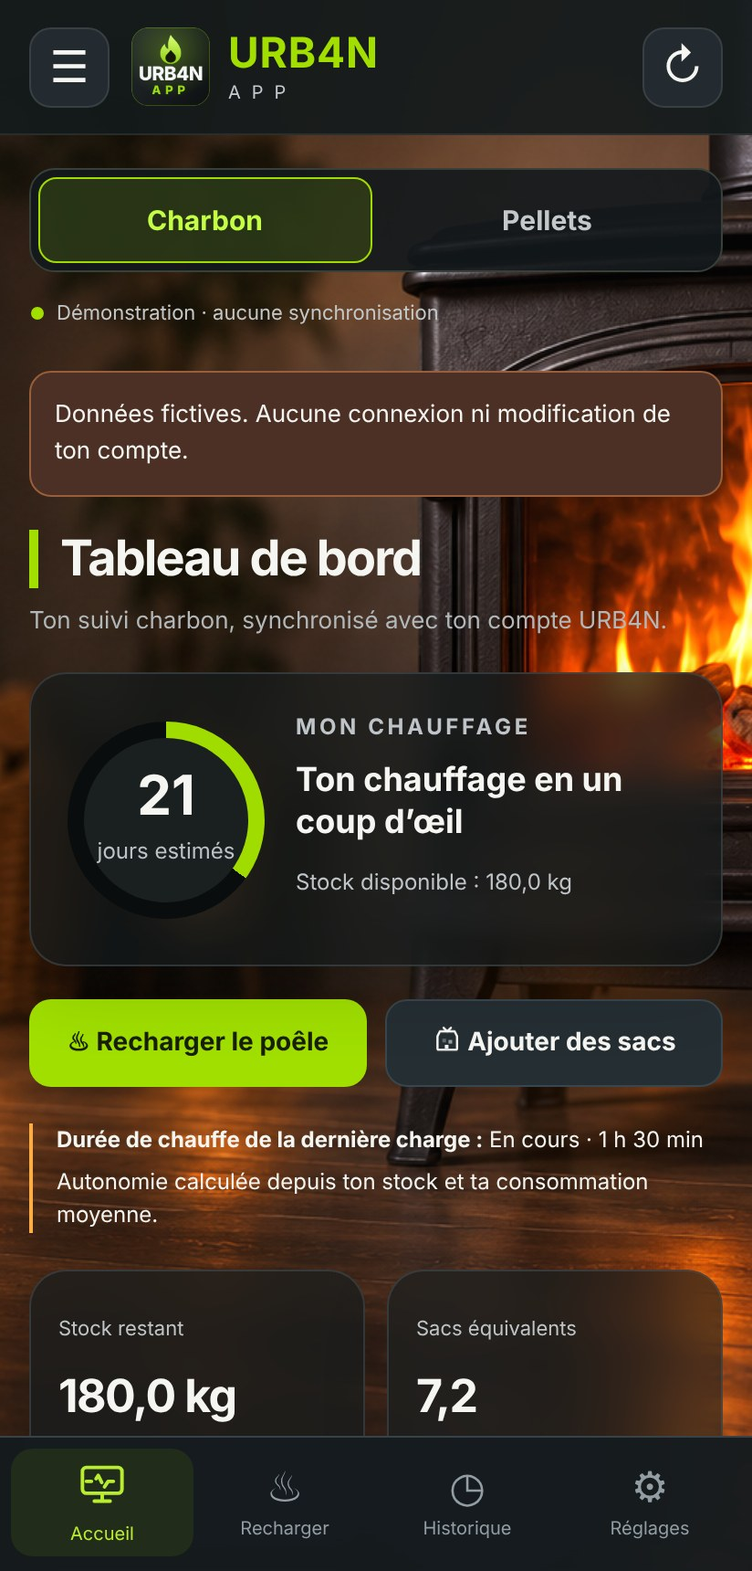
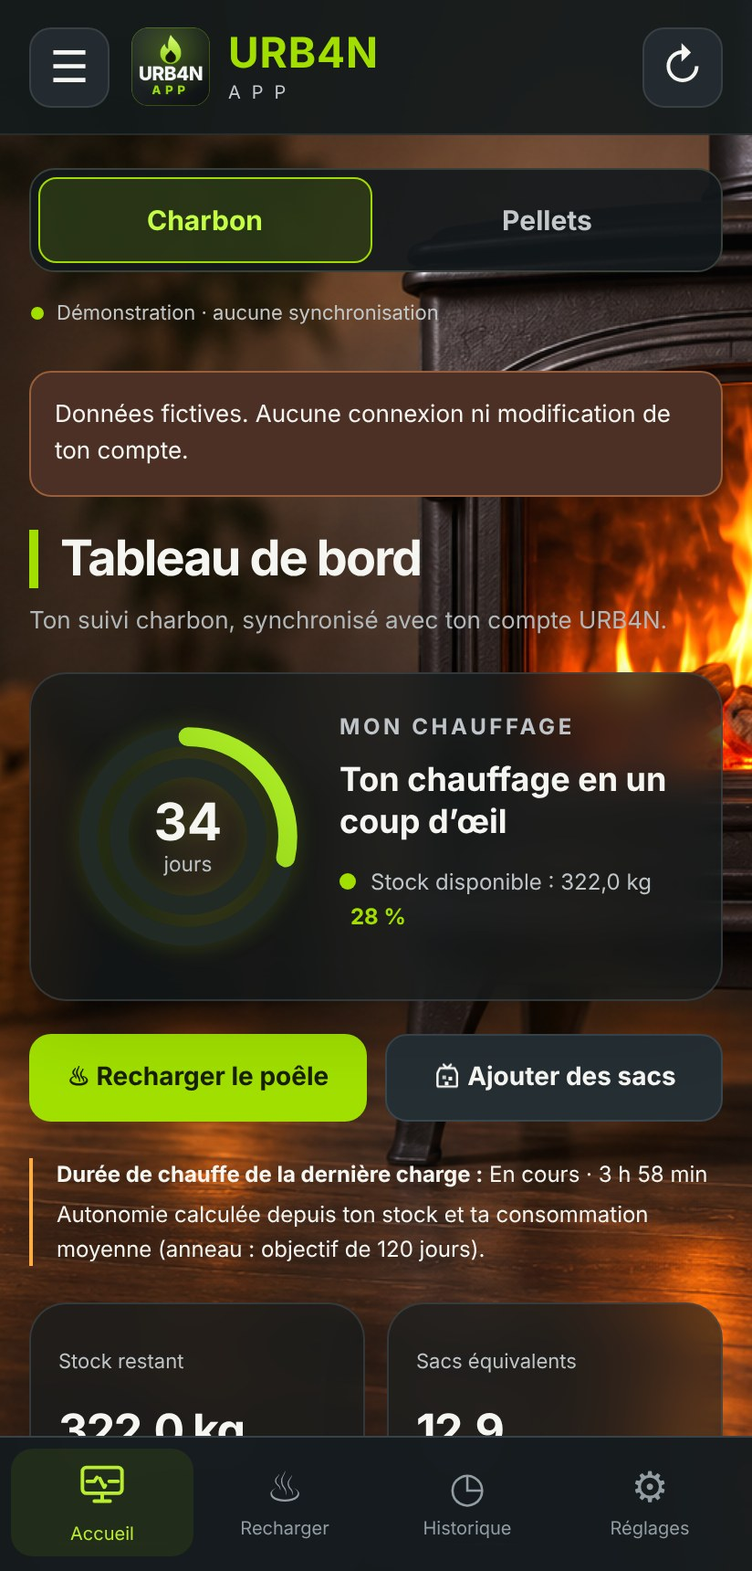
Site : captures Android de la nouvelle app et versions dans la légende
Claude-Session: https://claude.ai/code/session_017pRw9GXwh5B9mUks8ggPbM

Changed region(s): [[0.0303, 0.4314, 0.9709, 0.9244]]

diff --git a/i18n.js b/i18n.js
@@ -1,6 +1,6 @@
 (function(){
 "use strict";
-var D={"T": {"URB4N APP — Suivi de poêle à charbon et pellets": ["URB4N APP — Coal and pellet stove tracker", "URB4N APP — Opvolging van je kolen- en pelletkachel"], "L’application": ["The app", "De app"], "Confidentialité": ["Privacy", "Privacy"], "Conditions": ["Terms", "Voorwaarden"], "Windows et Android · Suivi personnel": ["Windows and Android · Personal tracking", "Windows en Android · Persoonlijke opvolging"], "Ton poêle.": ["Your stove.", "Jouw kachel."], "Sous contrôle.": ["Under control.", "Onder controle."], "Note tes rechargements de charbon ou de pellets et tes achats de sacs. URB4N APP calcule ton stock, ton autonomie et ton coût par jour. Tes données sont enregistrées sur ton compte URB4N, retrouvables sur tous tes appareils, et l’application garde ta saisie hors ligne.": ["Log your coal or pellet refills and your bag purchases. URB4N APP works out your stock, your autonomy and your cost per day. Your data is saved on your URB4N account, available on all your devices, and the app keeps your entries offline.", "Noteer je bijvullingen van kolen of pellets en je aankopen van zakken. URB4N APP berekent je voorraad, je autonomie en je kosten per dag. Je gegevens worden bewaard op je URB4N-account, zijn terug te vinden op al je toestellen, en de app bewaart je invoer ook offline."], "Télécharger pour Windows": ["Download for Windows", "Downloaden voor Windows"], "Télécharger pour Android": ["Download for Android", "Downloaden voor Android"], "Application sans pub ·": ["Ad-free app ·", "App zonder reclame ·"], "Voir les captures": ["See the screenshots", "Bekijk de screenshots"], "Ton stock": ["Your stock", "Jouw voorraad"], "toujours à jour": ["always up to date", "altijd up-to-date"], "Ton autonomie": ["Your autonomy", "Jouw autonomie"], "en jours, avant de racheter": ["in days, before you buy more", "in dagen, voor je opnieuw koopt"], "Ton coût par jour": ["Your cost per day", "Jouw kosten per dag"], "et ton prix moyen du sac": ["and your average bag price", "en je gemiddelde zakprijs"], "Essaie tout de suite": ["Try it now", "Probeer meteen"], "Combien de jours te reste-t-il ?": ["How many days do you have left?", "Hoeveel dagen heb je nog?"], "Choisis ton combustible et réponds à quatre questions : tu vois ton autonomie, ta date de panne sèche et ton coût par jour. L’application fait ce calcul toute seule, à partir de tes vrais rechargements.": ["Pick your fuel and answer four questions: you get your autonomy, your run-out date and your cost per day. The app does this calculation by itself, from your real refills.", "Kies je brandstof en beantwoord vier vragen: je ziet je autonomie, je datum van lege voorraad en je kosten per dag. De app doet deze berekening automatisch, op basis van je echte bijvullingen."], "Charbon": ["Coal", "Kolen"], "Pellets": ["Pellets", "Pellets"], "Sacs en stock": ["Bags in stock", "Zakken in voorraad"], "Poids d’un sac": ["Weight of a bag", "Gewicht van een zak"], "Tu brûles par jour": ["You burn per day", "Je verbrandt per dag"], "Prix d’un sac": ["Price of a bag", "Prijs van een zak"], "Panne sèche vers le": ["Runs out around", "Voorraad op rond"], "Coût moyen": ["Average cost", "Gemiddelde kosten"], "Stock": ["Stock", "Voorraad"], "Dans l’application :": ["In the app:", "In de app:"], "les charbons courants (anthracite IBB, Super Eco-Flam, Eurocalor, Topflam, Futurex, boulets défumés, lignite…) avec leurs calibres du 5/10 au 40/60, et les principales marques de pellets (Arden, Badger, Cleanfire, Comfo, Granulita, Pauls, Plospan, TotalEnergies, Woodies…) en 6 mm ou 8 mm. Ta marque n’y est pas ? Choisis « Autre ». Chaque combustible est suivi et calculé séparément.": ["the common coals (anthracite IBB, Super Eco-Flam, Eurocalor, Topflam, Futurex, smokeless briquettes, lignite…) with their sizes from 5/10 to 40/60, and the main pellet brands (Arden, Badger, Cleanfire, Comfo, Granulita, Pauls, Plospan, TotalEnergies, Woodies…) in 6 mm or 8 mm. Your brand isn't there? Choose “Autre” (Other). Each fuel is tracked and calculated separately.", "de gangbare kolen (anthraciet IBB, Super Eco-Flam, Eurocalor, Topflam, Futurex, rookvrije briketten, bruinkool…) met hun korrelgroottes van 5/10 tot 40/60, en de belangrijkste pelletmerken (Arden, Badger, Cleanfire, Comfo, Granulita, Pauls, Plospan, TotalEnergies, Woodies…) in 6 mm of 8 mm. Staat jouw merk er niet bij? Kies “Autre” (Andere). Elke brandstof wordt apart opgevolgd en berekend."], "Voir ça avec mes vrais chiffres": ["See it with my real numbers", "Bekijk het met mijn echte cijfers"], "Gratuit · Windows et Android": ["Free · Windows and Android", "Gratis · Windows en Android"], "Sur ton PC et ton téléphone": ["On your PC and your phone", "Op je pc en je telefoon"], "Le même suivi, partout.": ["The same tracking, everywhere.", "Dezelfde opvolging, overal."], "Reconnecte ton compte Google sur un autre appareil et retrouve tes achats, tes rechargements et tes réglages.": ["Sign back in with your Google account on another device and find your purchases, refills and settings.", "Meld je opnieuw aan met je Google-account op een ander toestel en vind je aankopen, bijvullingen en instellingen terug."], "Tout ce qu’il faut, rien de plus.": ["Everything you need, nothing more.", "Alles wat je nodig hebt, niets meer."], "Suivre": ["Track", "Opvolgen"], "Chaque rechargement noté": ["Every refill logged", "Elke bijvulling genoteerd"], "Enregistre dates, combustibles, calibres et quantités. Consulte l’historique et les bilans par jour ou par mois.": ["Record dates, fuels, sizes and quantities. Browse the history and the summaries by day or month.", "Registreer datums, brandstoffen, korrelgroottes en hoeveelheden. Raadpleeg de geschiedenis en de overzichten per dag of per maand."], "Adapter": ["Adapt", "Aanpassen"], "Charbon ou pellets": ["Coal or pellets", "Kolen of pellets"], "Renseigne les poids vide et plein de ta charbonnière : l’application déduit le récipient et calcule les fractions versées. Pour les pellets, choisis tes sacs du ¼ de sac à 4 sacs.": ["Enter the empty and full weights of your coal scuttle: the app subtracts the container and calculates the fractions poured in. For pellets, pick your bags from ¼ bag to 4 bags.", "Geef het leeg en vol gewicht van je kolenemmer op: de app trekt de emmer af en berekent de gegoten delen. Kies voor pellets je zakken van ¼ zak tot 4 zakken."], "Retrouver": ["Find", "Terugvinden"], "Sur tous tes appareils": ["On all your devices", "Op al je toestellen"], "Reconnecte ton compte Google sur un autre appareil et retrouve ton suivi.": ["Sign back in with your Google account on another device and find your tracking.", "Meld je opnieuw aan met je Google-account op een ander toestel en vind je opvolging terug."], "Comment ça marche": ["How it works", "Hoe het werkt"], "Installe": ["Install", "Installeer"], "Télécharge l’application Windows ou Android et ouvre-la.": ["Download the Windows or Android app and open it.", "Download de Windows- of Android-app en open ze."], "Connecte Google": ["Connect Google", "Verbind Google"], "Une inscription avec ton compte Google est requise pour accéder au suivi.": ["Signing up with your Google account is required to access the tracking.", "Een registratie met je Google-account is vereist om de opvolging te gebruiken."], "Note tes rechargements": ["Log your refills", "Noteer je bijvullingen"], "Stock, autonomie et coût se mettent à jour tout seuls.": ["Stock, autonomy and cost update by themselves.", "Voorraad, autonomie en kosten worden vanzelf bijgewerkt."], "À l’intérieur de l’application": ["Inside the app", "In de app"], "Un aperçu avant de te lancer.": ["A preview before you start.", "Een voorsmaakje voor je begint."], "Une interface sombre et tes outils de suivi à portée de main. Clique sur une capture pour l’agrandir.": ["A dark interface and your tracking tools within reach. Click a screenshot to enlarge it.", "Een donkere interface en je opvolgingstools binnen handbereik. Klik op een screenshot om te vergroten."], "Sur Windows": ["On Windows", "Op Windows"], "Agrandir ↗": ["Enlarge ↗", "Vergroten ↗"], "Ton chauffage en un coup d’œil": ["Your heating at a glance", "Je verwarming in één oogopslag"], "Stock, autonomie et consommation sur un seul écran.": ["Stock, autonomy and consumption on a single screen.", "Voorraad, autonomie en verbruik op één scherm."], "Des achats faciles à suivre": ["Purchases that are easy to track", "Aankopen die makkelijk op te volgen zijn"], "Prix du sac ou total payé : l’autre montant est calculé.": ["Bag price or total paid: the other amount is calculated.", "Prijs van de zak of totaal betaald: het andere bedrag wordt berekend."], "Charbon et pellets, chacun son suivi": ["Coal and pellets, each tracked separately", "Kolen en pellets, elk met eigen opvolging"], "Combustible, calibre et quantité réellement versée.": ["Fuel, size and the quantity actually poured in.", "Brandstof, korrelgrootte en effectief gegoten hoeveelheid."], "Sur Android": ["On Android", "Op Android"], "Le tableau de bord, dans ta poche": ["The dashboard, in your pocket", "Het dashboard, in je zak"], "Autonomie, stock et boutons rapides.": ["Autonomy, stock and quick buttons.", "Autonomie, voorraad en snelknoppen."], "Un rechargement en quelques touches": ["A refill in a few taps", "Een bijvulling in een paar tikken"], "Combustible, calibre et quantité.": ["Fuel, size and quantity.", "Brandstof, korrelgrootte en hoeveelheid."], "Historique et durée de chauffe": ["History and heating time", "Geschiedenis en stookduur"], "Chaque rechargement, sa durée et son coût.": ["Every refill, its duration and its cost.", "Elke bijvulling, haar duur en haar kosten."], "Captures avec des données fictives, réalisées avec les versions Windows 1.3.0.4 et Android 2.2.0.4.": ["Screenshots with sample data, taken with the Windows 1.3.0.4 and Android 2.2.0.4 versions.", "Screenshots met fictieve gegevens, gemaakt met de versies Windows 1.3.0.4 en Android 2.2.0.4."], "Nouveautés": ["What's new", "Nieuw"], "Nouvel anneau d’autonomie à deux cercles : le stock restant et l’avancement de la charge en cours. Alerte « Vérifie le poêle » : l’application apprend de tes charges et te prévient à 90 % de la durée attendue, par une notification Windows ou Android. Tu peux corriger ou supprimer un rechargement ou un achat directement dans leurs pages. Sous Windows : courbes en barres avec la prévision du stock jusqu’à zéro, et l’application reste près de l’horloge quand tu fermes la fenêtre.": ["New two-ring autonomy gauge: the remaining stock and the progress of the current charge. “Check the stove” alert: the app learns from your charges and warns you at 90% of the expected duration, with a Windows or Android notification. You can correct or delete a refill or a purchase directly on their pages. On Windows: bar charts with the stock forecast down to zero, and the app stays near the clock when you close the window.", "Nieuwe autonomiering met twee cirkels: de resterende voorraad en de voortgang van de lopende lading. Waarschuwing “Controleer de kachel”: de app leert van je ladingen en waarschuwt je op 90 % van de verwachte duur, via een Windows- of Android-melding. Je kunt een bijvulling of aankoop rechtstreeks op hun pagina’s corrigeren of verwijderen. Onder Windows: staafgrafieken met de voorspelling van de voorraad tot nul, en de app blijft bij de klok staan wanneer je het venster sluit."], "Questions fréquentes": ["Frequently asked questions", "Veelgestelde vragen"], "L’application Android est-elle prête ?": ["Is the Android app ready?", "Is de Android-app klaar?"], "Oui, c’est la version 2.3.0.2, installée par fichier APK hors Google Play (Android 8 ou plus récent, appareil 64 bits avec services Google Play). Les mises à jour se font depuis la page « Mises à jour » de l’application.": ["Yes, it's version 2.3.0.2, installed through an APK file outside Google Play (Android 8 or later, 64-bit device with Google Play services). Updates are done from the app's “Mises à jour” (Updates) page.", "Ja, het is versie 2.3.0.2, geïnstalleerd via een APK-bestand buiten Google Play (Android 8 of recenter, 64-bits toestel met Google Play-services). Updates gebeuren via de pagina “Mises à jour” (Updates) van de app."], "Pourquoi Google affiche-t-il un avertissement ?": ["Why does Google show a warning?", "Waarom toont Google een waarschuwing?"], "Le projet Google est en Production, mais la validation Google est encore en préparation : un avertissement et un plafond de connexions peuvent s’appliquer. Aucun compte Google n’est fourni avec l’application, et une installation vierge nécessite encore une configuration de connexion fournie par l’éditeur.": ["The Google project is in Production, but Google's verification is still being prepared: a warning and a cap on sign-ins may apply. No Google account is supplied with the app, and a fresh install still needs a sign-in configuration provided by the publisher.", "Het Google-project staat in Productie, maar de validatie door Google is nog in voorbereiding: er kan een waarschuwing en een limiet op het aantal aanmeldingen gelden. Er wordt geen Google-account met de app meegeleverd, en een verse installatie vraagt nog een aanmeldingsconfiguratie die door de uitgever wordt geleverd."], "Pourquoi connecter Google ?": ["Why connect Google?", "Waarom Google verbinden?"], "Google sert uniquement à prouver qui tu es (adresse e-mail et identifiant). Ton compte URB4N est créé à la première connexion et tes données sont enregistrées sur le serveur de l’éditeur, sans accès à ton Drive.": ["Google is only used to prove who you are (e-mail address and identifier). Your URB4N account is created at first sign-in and your data is saved on the publisher's server, with no access to your Drive.", "Google dient enkel om te bewijzen wie je bent (e-mailadres en identificatiecode). Je URB4N-account wordt bij de eerste aanmelding aangemaakt en je gegevens worden bewaard op de server van de uitgever, zonder toegang tot je Drive."], "Comment contacter le support ?": ["How do I contact support?", "Hoe contacteer ik de ondersteuning?"], "Dans l’application, le menu « Contact support » (bouton « Créer un ticket ») envoie volontairement un titre, une description et, si tu le souhaites, une capture. Ces rapports sont conservés sur le serveur de l’éditeur. Tu retrouves ensuite la conversation dans la même page.": ["In the app, the “Contact support” menu (“Créer un ticket” button) voluntarily sends a title, a description and, if you wish, a screenshot. These reports are kept on the publisher's server. You then find the conversation on the same page.", "In de app stuurt het menu “Contact support” (knop “Créer un ticket”) vrijwillig een titel, een beschrijving en, als je wilt, een screenshot. Deze meldingen worden bewaard op de server van de uitgever. Het gesprek vind je daarna op dezelfde pagina terug."], "Comment mettre à jour l’application ?": ["How do I update the app?", "Hoe werk ik de app bij?"], "Les mises à jour se font directement depuis l’application. Elle te propose la nouvelle version au démarrage.": ["Updates are done directly from the app. It offers you the new version at startup.", "Updates gebeuren rechtstreeks vanuit de app. Ze stelt je de nieuwe versie voor bij het opstarten."], "Tes données restent à toi.": ["Your data stays yours.", "Je gegevens blijven van jou."], "Google sert uniquement à t’identifier. Chaque utilisateur a son propre espace privé.": ["Google is only used to identify you. Each user has their own private space.", "Google dient enkel om je te identificeren. Elke gebruiker heeft zijn eigen privéruimte."], "Lire la confidentialité": ["Read the privacy policy", "Lees het privacybeleid"], "URB4N APP · Maintenu par": ["URB4N APP · Maintained by", "URB4N APP · Onderhouden door"], "· Contact :": ["· Contact:", "· Contact:"], "Application indépendante, sans affiliation avec Google ou un fabricant de poêles.": ["Independent app, not affiliated with Google or any stove manufacturer.", "Onafhankelijke app, zonder banden met Google of een kachelfabrikant."], "Fermer": ["Close", "Sluiten"], "← Précédente": ["← Previous", "← Vorige"], "Suivante →": ["Next →", "Volgende →"]}, "A": {"Navigation principale": ["Main navigation", "Hoofdnavigatie"], "Logo URB4N APP : une flamme sur fond sombre": ["URB4N APP logo: a flame on a dark background", "URB4N APP-logo: een vlam op een donkere achtergrond"], "Combustible": ["Fuel", "Brandstof"], "Autonomie": ["Autonomy", "Autonomie"], "Tableau de bord URB4N APP sur Windows": ["URB4N APP dashboard on Windows", "URB4N APP-dashboard op Windows"], "Accueil de l’application Android": ["Home screen of the Android app", "Startscherm van de Android-app"], "Tableau de bord — stock, autonomie et consommation en un coup d’œil (données fictives).": ["Dashboard — stock, autonomy and consumption at a glance (sample data).", "Dashboard — voorraad, autonomie en verbruik in één oogopslag (fictieve gegevens)."], "Tableau de bord URB4N APP : 19 jours d’autonomie, 184 kg de stock, consommation moyenne et derniers rechargements.": ["URB4N APP dashboard: 19 days of autonomy, 184 kg in stock, average consumption and latest refills.", "URB4N APP-dashboard: 19 dagen autonomie, 184 kg voorraad, gemiddeld verbruik en laatste bijvullingen."], "Achats de sacs — saisis le prix d’un sac ou le montant total payé (données fictives).": ["Bag purchases — enter the price of a bag or the total amount paid (sample data).", "Aankopen van zakken — geef de prijs van een zak of het totaal betaalde bedrag in (fictieve gegevens)."], "Achats de sacs : formulaire avec nombre de sacs, prix d’un sac et montant total payé, et liste des achats.": ["Bag purchases: form with number of bags, price of a bag and total amount paid, and the list of purchases.", "Aankopen van zakken: formulier met aantal zakken, prijs van een zak en totaal betaald bedrag, en de lijst van aankopen."], "Rechargement — choisis le combustible, le calibre et la quantité versée (données fictives).": ["Refill — choose the fuel, the size and the quantity poured in (sample data).", "Bijvulling — kies de brandstof, de korrelgrootte en de gegoten hoeveelheid (fictieve gegevens)."], "Formulaire de rechargement avec choix du combustible, du calibre et de la quantité versée, et la liste des derniers rechargements.": ["Refill form with choice of fuel, size and quantity poured in, and the list of the latest refills.", "Bijvulformulier met keuze van brandstof, korrelgrootte en gegoten hoeveelheid, en de lijst van de laatste bijvullingen."], "Android — tableau de bord avec jours estimés et stock restant (données fictives).": ["Android — dashboard with estimated days and remaining stock (sample data).", "Android — dashboard met geschatte dagen en resterende voorraad (fictieve gegevens)."], "Tableau de bord Android : 21 jours estimés, stock de 180 kg, boutons Recharger le poêle et Ajouter des sacs.": ["Android dashboard: 21 estimated days, 180 kg of stock, “Recharger le poêle” and “Ajouter des sacs” buttons.", "Android-dashboard: 21 geschatte dagen, 180 kg voorraad, knoppen “Recharger le poêle” en “Ajouter des sacs”."], "Android — nouveau rechargement : date, combustible, calibre et quantité (données fictives).": ["Android — new refill: date, fuel, size and quantity (sample data).", "Android — nieuwe bijvulling: datum, brandstof, korrelgrootte en hoeveelheid (fictieve gegevens)."], "Formulaire de nouveau rechargement Android avec date, combustible, calibre et quantité de charbonnière.": ["Android new refill form with date, fuel, size and scuttle quantity.", "Android-formulier voor een nieuwe bijvulling met datum, brandstof, korrelgrootte en hoeveelheid in de kolenemmer."], "Android — historique des rechargements avec durée de chauffe et coût (données fictives).": ["Android — refill history with heating time and cost (sample data).", "Android — geschiedenis van bijvullingen met stookduur en kosten (fictieve gegevens)."], "Historique Android des rechargements avec quantité, durée de chauffe et coût.": ["Android refill history with quantity, heating time and cost.", "Android-geschiedenis van bijvullingen met hoeveelheid, stookduur en kosten."], "Fermer la capture": ["Close the screenshot", "Screenshot sluiten"], "Capture précédente": ["Previous screenshot", "Vorige screenshot"], "Capture suivante": ["Next screenshot", "Volgende screenshot"]}};
+var D={"T": {"URB4N APP — Suivi de poêle à charbon et pellets": ["URB4N APP — Coal and pellet stove tracker", "URB4N APP — Opvolging van je kolen- en pelletkachel"], "L’application": ["The app", "De app"], "Confidentialité": ["Privacy", "Privacy"], "Conditions": ["Terms", "Voorwaarden"], "Windows et Android · Suivi personnel": ["Windows and Android · Personal tracking", "Windows en Android · Persoonlijke opvolging"], "Ton poêle.": ["Your stove.", "Jouw kachel."], "Sous contrôle.": ["Under control.", "Onder controle."], "Note tes rechargements de charbon ou de pellets et tes achats de sacs. URB4N APP calcule ton stock, ton autonomie et ton coût par jour. Tes données sont enregistrées sur ton compte URB4N, retrouvables sur tous tes appareils, et l’application garde ta saisie hors ligne.": ["Log your coal or pellet refills and your bag purchases. URB4N APP works out your stock, your autonomy and your cost per day. Your data is saved on your URB4N account, available on all your devices, and the app keeps your entries offline.", "Noteer je bijvullingen van kolen of pellets en je aankopen van zakken. URB4N APP berekent je voorraad, je autonomie en je kosten per dag. Je gegevens worden bewaard op je URB4N-account, zijn terug te vinden op al je toestellen, en de app bewaart je invoer ook offline."], "Télécharger pour Windows": ["Download for Windows", "Downloaden voor Windows"], "Télécharger pour Android": ["Download for Android", "Downloaden voor Android"], "Application sans pub ·": ["Ad-free app ·", "App zonder reclame ·"], "Voir les captures": ["See the screenshots", "Bekijk de screenshots"], "Ton stock": ["Your stock", "Jouw voorraad"], "toujours à jour": ["always up to date", "altijd up-to-date"], "Ton autonomie": ["Your autonomy", "Jouw autonomie"], "en jours, avant de racheter": ["in days, before you buy more", "in dagen, voor je opnieuw koopt"], "Ton coût par jour": ["Your cost per day", "Jouw kosten per dag"], "et ton prix moyen du sac": ["and your average bag price", "en je gemiddelde zakprijs"], "Essaie tout de suite": ["Try it now", "Probeer meteen"], "Combien de jours te reste-t-il ?": ["How many days do you have left?", "Hoeveel dagen heb je nog?"], "Choisis ton combustible et réponds à quatre questions : tu vois ton autonomie, ta date de panne sèche et ton coût par jour. L’application fait ce calcul toute seule, à partir de tes vrais rechargements.": ["Pick your fuel and answer four questions: you get your autonomy, your run-out date and your cost per day. The app does this calculation by itself, from your real refills.", "Kies je brandstof en beantwoord vier vragen: je ziet je autonomie, je datum van lege voorraad en je kosten per dag. De app doet deze berekening automatisch, op basis van je echte bijvullingen."], "Charbon": ["Coal", "Kolen"], "Pellets": ["Pellets", "Pellets"], "Sacs en stock": ["Bags in stock", "Zakken in voorraad"], "Poids d’un sac": ["Weight of a bag", "Gewicht van een zak"], "Tu brûles par jour": ["You burn per day", "Je verbrandt per dag"], "Prix d’un sac": ["Price of a bag", "Prijs van een zak"], "Panne sèche vers le": ["Runs out around", "Voorraad op rond"], "Coût moyen": ["Average cost", "Gemiddelde kosten"], "Stock": ["Stock", "Voorraad"], "Dans l’application :": ["In the app:", "In de app:"], "les charbons courants (anthracite IBB, Super Eco-Flam, Eurocalor, Topflam, Futurex, boulets défumés, lignite…) avec leurs calibres du 5/10 au 40/60, et les principales marques de pellets (Arden, Badger, Cleanfire, Comfo, Granulita, Pauls, Plospan, TotalEnergies, Woodies…) en 6 mm ou 8 mm. Ta marque n’y est pas ? Choisis « Autre ». Chaque combustible est suivi et calculé séparément.": ["the common coals (anthracite IBB, Super Eco-Flam, Eurocalor, Topflam, Futurex, smokeless briquettes, lignite…) with their sizes from 5/10 to 40/60, and the main pellet brands (Arden, Badger, Cleanfire, Comfo, Granulita, Pauls, Plospan, TotalEnergies, Woodies…) in 6 mm or 8 mm. Your brand isn't there? Choose “Autre” (Other). Each fuel is tracked and calculated separately.", "de gangbare kolen (anthraciet IBB, Super Eco-Flam, Eurocalor, Topflam, Futurex, rookvrije briketten, bruinkool…) met hun korrelgroottes van 5/10 tot 40/60, en de belangrijkste pelletmerken (Arden, Badger, Cleanfire, Comfo, Granulita, Pauls, Plospan, TotalEnergies, Woodies…) in 6 mm of 8 mm. Staat jouw merk er niet bij? Kies “Autre” (Andere). Elke brandstof wordt apart opgevolgd en berekend."], "Voir ça avec mes vrais chiffres": ["See it with my real numbers", "Bekijk het met mijn echte cijfers"], "Gratuit · Windows et Android": ["Free · Windows and Android", "Gratis · Windows en Android"], "Sur ton PC et ton téléphone": ["On your PC and your phone", "Op je pc en je telefoon"], "Le même suivi, partout.": ["The same tracking, everywhere.", "Dezelfde opvolging, overal."], "Reconnecte ton compte Google sur un autre appareil et retrouve tes achats, tes rechargements et tes réglages.": ["Sign back in with your Google account on another device and find your purchases, refills and settings.", "Meld je opnieuw aan met je Google-account op een ander toestel en vind je aankopen, bijvullingen en instellingen terug."], "Tout ce qu’il faut, rien de plus.": ["Everything you need, nothing more.", "Alles wat je nodig hebt, niets meer."], "Suivre": ["Track", "Opvolgen"], "Chaque rechargement noté": ["Every refill logged", "Elke bijvulling genoteerd"], "Enregistre dates, combustibles, calibres et quantités. Consulte l’historique et les bilans par jour ou par mois.": ["Record dates, fuels, sizes and quantities. Browse the history and the summaries by day or month.", "Registreer datums, brandstoffen, korrelgroottes en hoeveelheden. Raadpleeg de geschiedenis en de overzichten per dag of per maand."], "Adapter": ["Adapt", "Aanpassen"], "Charbon ou pellets": ["Coal or pellets", "Kolen of pellets"], "Renseigne les poids vide et plein de ta charbonnière : l’application déduit le récipient et calcule les fractions versées. Pour les pellets, choisis tes sacs du ¼ de sac à 4 sacs.": ["Enter the empty and full weights of your coal scuttle: the app subtracts the container and calculates the fractions poured in. For pellets, pick your bags from ¼ bag to 4 bags.", "Geef het leeg en vol gewicht van je kolenemmer op: de app trekt de emmer af en berekent de gegoten delen. Kies voor pellets je zakken van ¼ zak tot 4 zakken."], "Retrouver": ["Find", "Terugvinden"], "Sur tous tes appareils": ["On all your devices", "Op al je toestellen"], "Reconnecte ton compte Google sur un autre appareil et retrouve ton suivi.": ["Sign back in with your Google account on another device and find your tracking.", "Meld je opnieuw aan met je Google-account op een ander toestel en vind je opvolging terug."], "Comment ça marche": ["How it works", "Hoe het werkt"], "Installe": ["Install", "Installeer"], "Télécharge l’application Windows ou Android et ouvre-la.": ["Download the Windows or Android app and open it.", "Download de Windows- of Android-app en open ze."], "Connecte Google": ["Connect Google", "Verbind Google"], "Une inscription avec ton compte Google est requise pour accéder au suivi.": ["Signing up with your Google account is required to access the tracking.", "Een registratie met je Google-account is vereist om de opvolging te gebruiken."], "Note tes rechargements": ["Log your refills", "Noteer je bijvullingen"], "Stock, autonomie et coût se mettent à jour tout seuls.": ["Stock, autonomy and cost update by themselves.", "Voorraad, autonomie en kosten worden vanzelf bijgewerkt."], "À l’intérieur de l’application": ["Inside the app", "In de app"], "Un aperçu avant de te lancer.": ["A preview before you start.", "Een voorsmaakje voor je begint."], "Une interface sombre et tes outils de suivi à portée de main. Clique sur une capture pour l’agrandir.": ["A dark interface and your tracking tools within reach. Click a screenshot to enlarge it.", "Een donkere interface en je opvolgingstools binnen handbereik. Klik op een screenshot om te vergroten."], "Sur Windows": ["On Windows", "Op Windows"], "Agrandir ↗": ["Enlarge ↗", "Vergroten ↗"], "Ton chauffage en un coup d’œil": ["Your heating at a glance", "Je verwarming in één oogopslag"], "Stock, autonomie et consommation sur un seul écran.": ["Stock, autonomy and consumption on a single screen.", "Voorraad, autonomie en verbruik op één scherm."], "Des achats faciles à suivre": ["Purchases that are easy to track", "Aankopen die makkelijk op te volgen zijn"], "Prix du sac ou total payé : l’autre montant est calculé.": ["Bag price or total paid: the other amount is calculated.", "Prijs van de zak of totaal betaald: het andere bedrag wordt berekend."], "Charbon et pellets, chacun son suivi": ["Coal and pellets, each tracked separately", "Kolen en pellets, elk met eigen opvolging"], "Combustible, calibre et quantité réellement versée.": ["Fuel, size and the quantity actually poured in.", "Brandstof, korrelgrootte en effectief gegoten hoeveelheid."], "Sur Android": ["On Android", "Op Android"], "Le tableau de bord, dans ta poche": ["The dashboard, in your pocket", "Het dashboard, in je zak"], "Autonomie, stock et boutons rapides.": ["Autonomy, stock and quick buttons.", "Autonomie, voorraad en snelknoppen."], "Un rechargement en quelques touches": ["A refill in a few taps", "Een bijvulling in een paar tikken"], "Combustible, calibre et quantité.": ["Fuel, size and quantity.", "Brandstof, korrelgrootte en hoeveelheid."], "Historique et durée de chauffe": ["History and heating time", "Geschiedenis en stookduur"], "Chaque rechargement, sa durée et son coût.": ["Every refill, its duration and its cost.", "Elke bijvulling, haar duur en haar kosten."], "Captures avec des données fictives, réalisées avec les versions Windows 1.4.0 et Android 2.3.0.": ["Screenshots with sample data, taken with the Windows 1.4.0 and Android 2.3.0 versions.", "Screenshots met fictieve gegevens, gemaakt met de versies Windows 1.4.0 en Android 2.3.0."], "Nouveautés": ["What's new", "Nieuw"], "Nouvel anneau d’autonomie à deux cercles : le stock restant et l’avancement de la charge en cours. Alerte « Vérifie le poêle » : l’application apprend de tes charges et te prévient à 90 % de la durée attendue, par une notification Windows ou Android. Tu peux corriger ou supprimer un rechargement ou un achat directement dans leurs pages. Sous Windows : courbes en barres avec la prévision du stock jusqu’à zéro, et l’application reste près de l’horloge quand tu fermes la fenêtre.": ["New two-ring autonomy gauge: the remaining stock and the progress of the current charge. “Check the stove” alert: the app learns from your charges and warns you at 90% of the expected duration, with a Windows or Android notification. You can correct or delete a refill or a purchase directly on their pages. On Windows: bar charts with the stock forecast down to zero, and the app stays near the clock when you close the window.", "Nieuwe autonomiering met twee cirkels: de resterende voorraad en de voortgang van de lopende lading. Waarschuwing “Controleer de kachel”: de app leert van je ladingen en waarschuwt je op 90 % van de verwachte duur, via een Windows- of Android-melding. Je kunt een bijvulling of aankoop rechtstreeks op hun pagina’s corrigeren of verwijderen. Onder Windows: staafgrafieken met de voorspelling van de voorraad tot nul, en de app blijft bij de klok staan wanneer je het venster sluit."], "Questions fréquentes": ["Frequently asked questions", "Veelgestelde vragen"], "L’application Android est-elle prête ?": ["Is the Android app ready?", "Is de Android-app klaar?"], "Oui, c’est la version 2.3.0.2, installée par fichier APK hors Google Play (Android 8 ou plus récent, appareil 64 bits avec services Google Play). Les mises à jour se font depuis la page « Mises à jour » de l’application.": ["Yes, it's version 2.3.0.2, installed through an APK file outside Google Play (Android 8 or later, 64-bit device with Google Play services). Updates are done from the app's “Mises à jour” (Updates) page.", "Ja, het is versie 2.3.0.2, geïnstalleerd via een APK-bestand buiten Google Play (Android 8 of recenter, 64-bits toestel met Google Play-services). Updates gebeuren via de pagina “Mises à jour” (Updates) van de app."], "Pourquoi Google affiche-t-il un avertissement ?": ["Why does Google show a warning?", "Waarom toont Google een waarschuwing?"], "Le projet Google est en Production, mais la validation Google est encore en préparation : un avertissement et un plafond de connexions peuvent s’appliquer. Aucun compte Google n’est fourni avec l’application, et une installation vierge nécessite encore une configuration de connexion fournie par l’éditeur.": ["The Google project is in Production, but Google's verification is still being prepared: a warning and a cap on sign-ins may apply. No Google account is supplied with the app, and a fresh install still needs a sign-in configuration provided by the publisher.", "Het Google-project staat in Productie, maar de validatie door Google is nog in voorbereiding: er kan een waarschuwing en een limiet op het aantal aanmeldingen gelden. Er wordt geen Google-account met de app meegeleverd, en een verse installatie vraagt nog een aanmeldingsconfiguratie die door de uitgever wordt geleverd."], "Pourquoi connecter Google ?": ["Why connect Google?", "Waarom Google verbinden?"], "Google sert uniquement à prouver qui tu es (adresse e-mail et identifiant). Ton compte URB4N est créé à la première connexion et tes données sont enregistrées sur le serveur de l’éditeur, sans accès à ton Drive.": ["Google is only used to prove who you are (e-mail address and identifier). Your URB4N account is created at first sign-in and your data is saved on the publisher's server, with no access to your Drive.", "Google dient enkel om te bewijzen wie je bent (e-mailadres en identificatiecode). Je URB4N-account wordt bij de eerste aanmelding aangemaakt en je gegevens worden bewaard op de server van de uitgever, zonder toegang tot je Drive."], "Comment contacter le support ?": ["How do I contact support?", "Hoe contacteer ik de ondersteuning?"], "Dans l’application, le menu « Contact support » (bouton « Créer un ticket ») envoie volontairement un titre, une description et, si tu le souhaites, une capture. Ces rapports sont conservés sur le serveur de l’éditeur. Tu retrouves ensuite la conversation dans la même page.": ["In the app, the “Contact support” menu (“Créer un ticket” button) voluntarily sends a title, a description and, if you wish, a screenshot. These reports are kept on the publisher's server. You then find the conversation on the same page.", "In de app stuurt het menu “Contact support” (knop “Créer un ticket”) vrijwillig een titel, een beschrijving en, als je wilt, een screenshot. Deze meldingen worden bewaard op de server van de uitgever. Het gesprek vind je daarna op dezelfde pagina terug."], "Comment mettre à jour l’application ?": ["How do I update the app?", "Hoe werk ik de app bij?"], "Les mises à jour se font directement depuis l’application. Elle te propose la nouvelle version au démarrage.": ["Updates are done directly from the app. It offers you the new version at startup.", "Updates gebeuren rechtstreeks vanuit de app. Ze stelt je de nieuwe versie voor bij het opstarten."], "Tes données restent à toi.": ["Your data stays yours.", "Je gegevens blijven van jou."], "Google sert uniquement à t’identifier. Chaque utilisateur a son propre espace privé.": ["Google is only used to identify you. Each user has their own private space.", "Google dient enkel om je te identificeren. Elke gebruiker heeft zijn eigen privéruimte."], "Lire la confidentialité": ["Read the privacy policy", "Lees het privacybeleid"], "URB4N APP · Maintenu par": ["URB4N APP · Maintained by", "URB4N APP · Onderhouden door"], "· Contact :": ["· Contact:", "· Contact:"], "Application indépendante, sans affiliation avec Google ou un fabricant de poêles.": ["Independent app, not affiliated with Google or any stove manufacturer.", "Onafhankelijke app, zonder banden met Google of een kachelfabrikant."], "Fermer": ["Close", "Sluiten"], "← Précédente": ["← Previous", "← Vorige"], "Suivante →": ["Next →", "Volgende →"]}, "A": {"Navigation principale": ["Main navigation", "Hoofdnavigatie"], "Logo URB4N APP : une flamme sur fond sombre": ["URB4N APP logo: a flame on a dark background", "URB4N APP-logo: een vlam op een donkere achtergrond"], "Combustible": ["Fuel", "Brandstof"], "Autonomie": ["Autonomy", "Autonomie"], "Tableau de bord URB4N APP sur Windows": ["URB4N APP dashboard on Windows", "URB4N APP-dashboard op Windows"], "Accueil de l’application Android": ["Home screen of the Android app", "Startscherm van de Android-app"], "Tableau de bord — stock, autonomie et consommation en un coup d’œil (données fictives).": ["Dashboard — stock, autonomy and consumption at a glance (sample data).", "Dashboard — voorraad, autonomie en verbruik in één oogopslag (fictieve gegevens)."], "Tableau de bord URB4N APP : 19 jours d’autonomie, 184 kg de stock, consommation moyenne et derniers rechargements.": ["URB4N APP dashboard: 19 days of autonomy, 184 kg in stock, average consumption and latest refills.", "URB4N APP-dashboard: 19 dagen autonomie, 184 kg voorraad, gemiddeld verbruik en laatste bijvullingen."], "Achats de sacs — saisis le prix d’un sac ou le montant total payé (données fictives).": ["Bag purchases — enter the price of a bag or the total amount paid (sample data).", "Aankopen van zakken — geef de prijs van een zak of het totaal betaalde bedrag in (fictieve gegevens)."], "Achats de sacs : formulaire avec nombre de sacs, prix d’un sac et montant total payé, et liste des achats.": ["Bag purchases: form with number of bags, price of a bag and total amount paid, and the list of purchases.", "Aankopen van zakken: formulier met aantal zakken, prijs van een zak en totaal betaald bedrag, en de lijst van aankopen."], "Rechargement — choisis le combustible, le calibre et la quantité versée (données fictives).": ["Refill — choose the fuel, the size and the quantity poured in (sample data).", "Bijvulling — kies de brandstof, de korrelgrootte en de gegoten hoeveelheid (fictieve gegevens)."], "Formulaire de rechargement avec choix du combustible, du calibre et de la quantité versée, et la liste des derniers rechargements.": ["Refill form with choice of fuel, size and quantity poured in, and the list of the latest refills.", "Bijvulformulier met keuze van brandstof, korrelgrootte en gegoten hoeveelheid, en de lijst van de laatste bijvullingen."], "Android — tableau de bord avec jours estimés et stock restant (données fictives).": ["Android — dashboard with estimated days and remaining stock (sample data).", "Android — dashboard met geschatte dagen en resterende voorraad (fictieve gegevens)."], "Tableau de bord Android : 21 jours estimés, stock de 180 kg, boutons Recharger le poêle et Ajouter des sacs.": ["Android dashboard: 21 estimated days, 180 kg of stock, “Recharger le poêle” and “Ajouter des sacs” buttons.", "Android-dashboard: 21 geschatte dagen, 180 kg voorraad, knoppen “Recharger le poêle” en “Ajouter des sacs”."], "Android — nouveau rechargement : date, combustible, calibre et quantité (données fictives).": ["Android — new refill: date, fuel, size and quantity (sample data).", "Android — nieuwe bijvulling: datum, brandstof, korrelgrootte en hoeveelheid (fictieve gegevens)."], "Formulaire de nouveau rechargement Android avec date, combustible, calibre et quantité de charbonnière.": ["Android new refill form with date, fuel, size and scuttle quantity.", "Android-formulier voor een nieuwe bijvulling met datum, brandstof, korrelgrootte en hoeveelheid in de kolenemmer."], "Android — historique des rechargements avec durée de chauffe et coût (données fictives).": ["Android — refill history with heating time and cost (sample data).", "Android — geschiedenis van bijvullingen met stookduur en kosten (fictieve gegevens)."], "Historique Android des rechargements avec quantité, durée de chauffe et coût.": ["Android refill history with quantity, heating time and cost.", "Android-geschiedenis van bijvullingen met hoeveelheid, stookduur en kosten."], "Fermer la capture": ["Close the screenshot", "Screenshot sluiten"], "Capture précédente": ["Previous screenshot", "Vorige screenshot"], "Capture suivante": ["Next screenshot", "Volgende screenshot"]}};
 var RULES=[
  [/^Version (\S+) · installateur$/,["Version $1 · installer","Versie $1 · installatieprogramma"]],
  [/^Version (\S+) · fichier APK$/,["Version $1 · APK file","Versie $1 · APK-bestand"]],

diff --git a/index.html b/index.html
@@ -155,7 +155,7 @@
 <figcaption><h3>Historique et durée de chauffe</h3><p>Chaque rechargement, sa durée et son coût.</p></figcaption>
 </figure>
 </div>
-<p class="gallery-note">Captures avec des données fictives, réalisées avec les versions Windows 1.3.0.4 et Android 2.2.0.4.</p>
+<p class="gallery-note">Captures avec des données fictives, réalisées avec les versions Windows 1.4.0 et Android 2.3.0.</p>
 </section>
 
 <section aria-labelledby="n-title">
